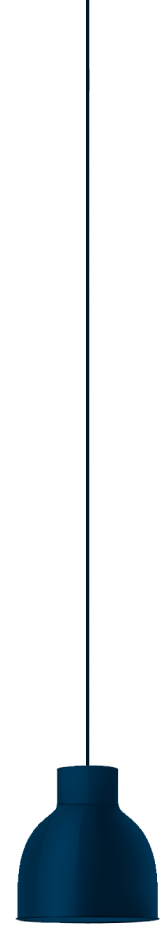
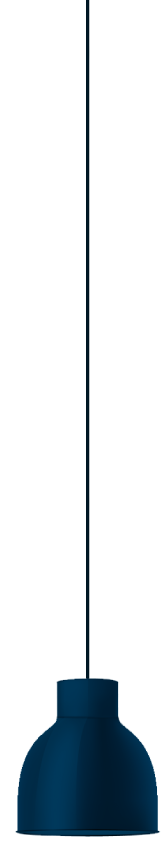
2-option-light on small & tablette size

diff --git a/index.html b/index.html
@@ -89,7 +89,56 @@
                 <article class="light-article">
                     <h1>VOUS AVEZ DES IDÉES <span class="idea"><img src="/images/idea-lamp.png" alt="idea"></span> ?</h1>
                     <h3>CRÉONS UNE HISTOIRE ENSEMBLE</h3>
-                    <p>Chaque projet nécessite un accompagnement sur-mesure et une expertise                   personnalisée</p>
+                    <p>Chaque projet nécessite un accompagnement sur-mesure et une expertise personnalisée</p>
+                    <button class="btn-read"><a href="#">savior plus</a></button>
+                </article>
+            </div>
+            <div class="dark lighting">
+                <!--telephone-->
+                <div class="block-pic telephone">
+                    <img src="/images/PHONE-02.png" class="telephone" alt="old phone">
+                </div>
+                <!--Cameleon-->
+                <div class="block-pic cameleon">
+                    <img src="/images/CAMELEON-01.png" class="cameleon" alt="cameleon">
+                </div>
+                <!--Table-->
+                <div class="lamp-shadow">
+                    <img src="/images/light-shadow.png" class="lamp-shadow" alt="shadow">
+                </div>
+                <div class="block-pic table">
+                    <img src="/images/TABL.png" class="table" alt="table">
+                </div>
+                <!--Light effect-->
+                <div class="lamp-on">
+                    <img src="/images/LAMPE-BLUE-long.png" class="lamp-dark" alt="lamp">
+                </div>
+                <!--Doubel lighting1-->
+                <div class="lighter">
+                    <p contenteditable="true">0!!</p>
+                </div>
+                <!--Doubel lighting2-->
+                <div class="lighter">
+                    <p contenteditable="true">0!!</p>
+                </div>
+            </div>
+        </div>
+        <!--End container-->
+    </section>
+    <!--End Section lighting-->
+
+    <!--SECOND OPTION FOR LIGHT SPOT-->
+      <!--Section lighting-->
+      <section class="dark-section">
+        <!-- container -->
+        <div class="container">
+            <!--Text-->
+            <div class="light-text">
+                <article class="light-article">
+                    <h1>VOUS AVEZ DES IDÉES <span class="idea"><img src="/images/idea-lamp.png" alt="idea"></span> ?</h1>
+                    <h3>CRÉONS UNE HISTOIRE ENSEMBLE</h3>
+                    <p>Chaque projet nécessite un accompagnement sur-mesure et une expertise personnalisée</p>
+                    <button class="btn-read"><a href="#">savior plus</a></button>
                 </article>
             </div>
             <div class="dark lighting">
@@ -106,22 +155,22 @@
                     <img src="/images/TABL.png" class="table" alt="table">
                 </div>
                 <!--Light effect-->
+                <div class="lamp-shadow">
+                    <img src="/images/light-shadow.png" class="lamp-shadow" alt="shadow">
+                </div>
                 <div class="lamp-on">
                     <img src="/images/LAMPE-BLUE-long.png" class="lamp-dark" alt="lamp">
                 </div>
-                <div class="lighter">
-                    <p contenteditable="true">0!!</p>
+                <!--lighting SPOT-->
+                <div class="spot-light">
+                    <img src="/images/light.png" class="spot" alt="spot">
                 </div>
-                <div class="lighter">
-                    <p contenteditable="true">0!!</p>
-                </div>
+
             </div>
         </div>
         <!--End container-->
     </section>
-    <!--End dark section-->
     <!--End Section lighting-->
-
        
     <!--Footer-->
     <footer class="footer">

diff --git a/style.css b/style.css
@@ -202,7 +202,6 @@ img {
     justify-content: center;
     align-items: center;
     position: relative;
-    z-index: -9;
 }
 .container.dark {
     display: flex;
@@ -240,9 +239,9 @@ img.cameleon {
 .lamp-dark {
     position: absolute;
     width: 100px;
-    top: -70px;
-    right: 10px;
-    z-index: 0;
+    top: -44px;
+    right: 35px;
+    z-index: 1;
     transition: all .5s ease-in, transform 1s ease-in-out;
 }
 img.lamp-dark {
@@ -258,8 +257,9 @@ img.lamp-dark {
     align-items: flex-end;
 }
 .light-text {
-    padding: 1rem;
-    margin: 10rem 0 9rem 0;
+    z-index: 99;
+    padding: .5rem;
+    margin: 9rem 0 8rem 0;
 }
 .light-text h1{
     font-size: 2rem;
@@ -279,18 +279,31 @@ span.idea img {
     display: inline;
     width: 30px;
 }
+
 /* lamp on */
 .lamp-on img {
-    top: -30px;
+    top: -21px;
     width: 81px;
+    z-index: 2;
 }
+
+/* SHADOW */
+.lamp-shadow {
+    position: absolute;
+    bottom: -5px;
+    right: -65px;
+    height: 35vh;
+    width: 400px;
+    opacity: 0.5;
+}
+
 /* Light effect */
 .lighter {
     position: absolute;
+    z-index: 1;
     font-size: 10rem;
-    z-index: -1;
-    top: 56%;
-    right: 11px;
+    top: 51%;
+    right: 36px;
     color: #0e3742;
     -webkit-box-reflect: below 1px linear-gradient(transparent,#0004);
     line-height: 0.1em;
@@ -302,8 +315,8 @@ span.idea img {
     font-weight: 500;
     letter-spacing: -41px;
     transform: rotateZ(180deg);
-
 }
+
 @keyframes light {
     0%
     {
@@ -320,6 +333,18 @@ span.idea img {
         0 0 160px #03bcf4;   
     }
 }
+/*** TEST LIGHT SECTION ***/
+.spot-light {
+    position: absolute;
+    right: -23px;
+    top: 285px;
+    opacity: 0.3;
+}
+img.spot {
+    height: 52vh;
+    width: 200px;
+}
+
 /* Footer */
 footer {
     border: solid;
@@ -333,6 +358,53 @@ footer {
     text-align: center;
     color: #fff;
     font-size: 1.5rem;
+}
+
+
+
+/* Media query larger screen at 740px */
+@media screen and (min-width: 740px){
+    
+    /* lamp grey */
+    .light-lamp {
+        right: 50px;
+    }
+    /* lamp on */
+    .lamp-on img {
+        top: -28px;
+        right: 50px;
+        width: 81px;
+        z-index: 2;
+    }
+    /* Light effect */
+    .lighter {
+        right: 51px;
+    }
+    .spot-light {
+        right: -10px;
+    }
+    img.spot {
+        height: 52vh;
+        width: 200px;
+    }
+
+    /* SHADOW */
+    .lamp-shadow {
+        bottom: -10px;
+        right: -65px;
+        height: 35vh;
+    }
+    /* TABLE */
+    img.table {
+        margin-left: 2rem;
+        height: 35vh;
+       
+    }
+    /* CAMELEON */
+    img.cameleon {
+        margin-left: 8rem;
+    }
+
 }
 
 
